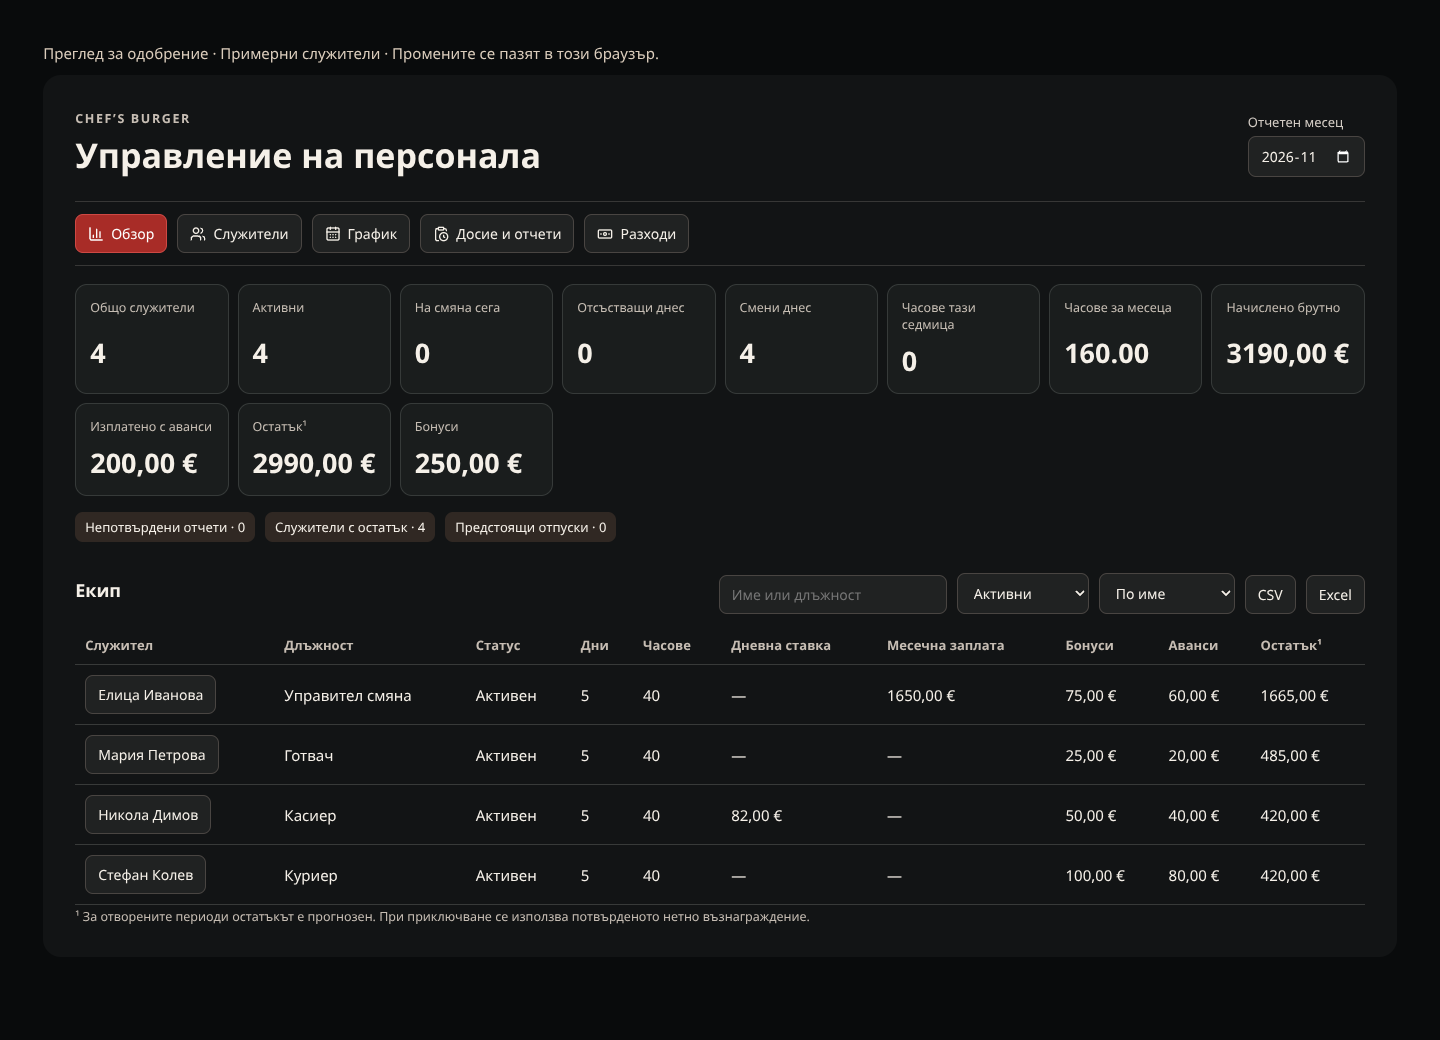
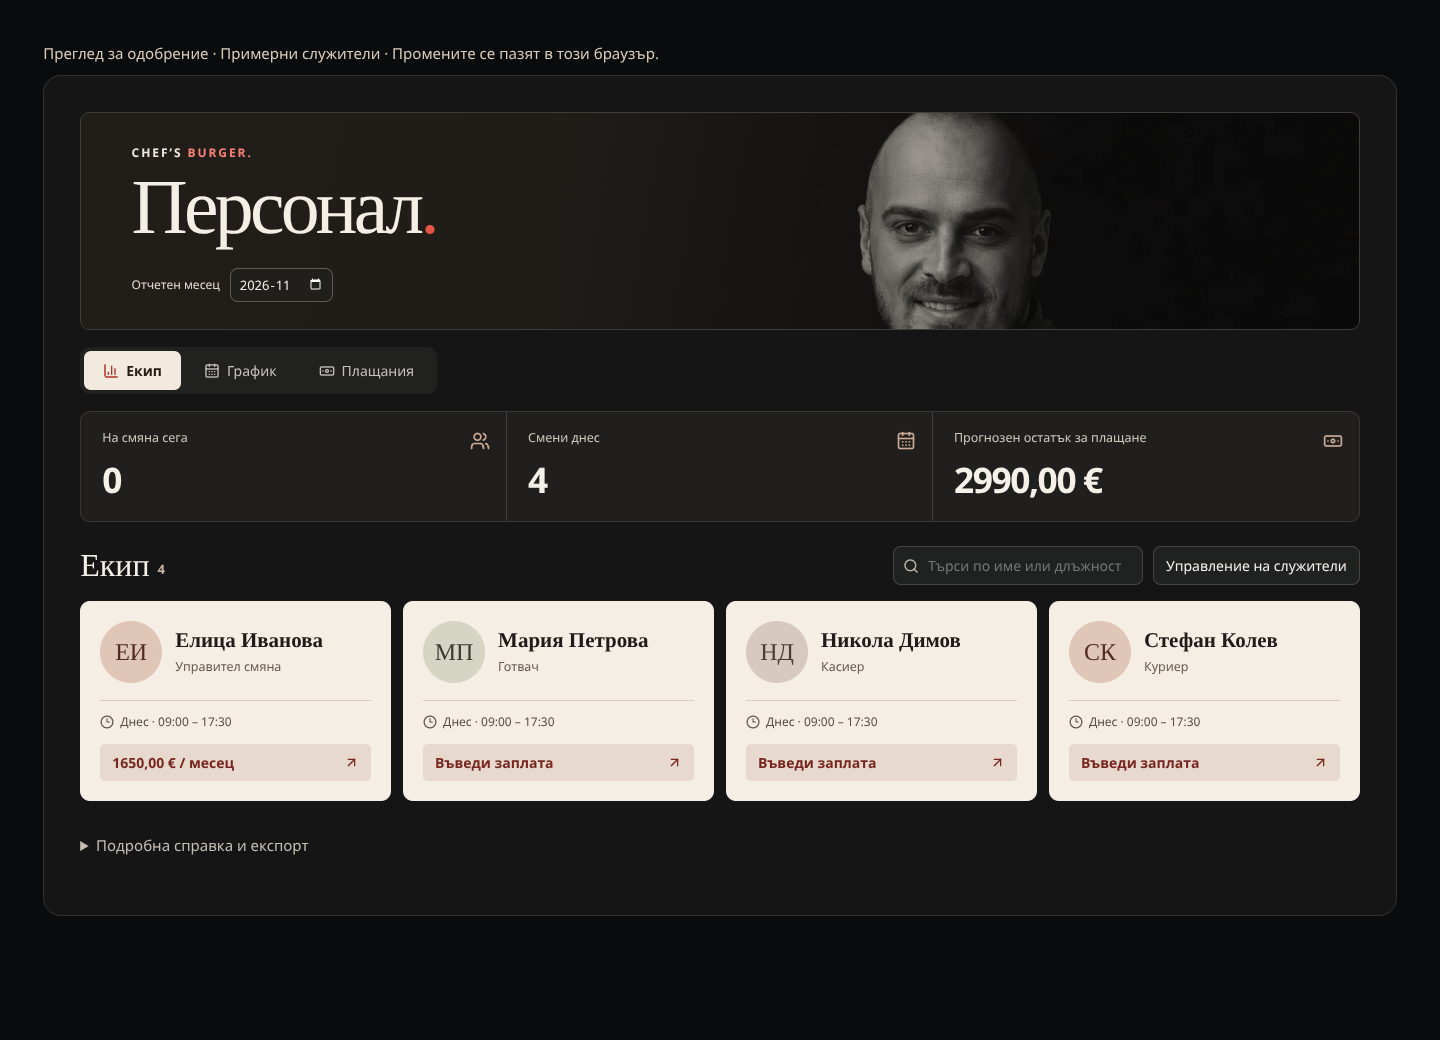
Redesign staff workspace with restaurant photography and editorial team cards

diff --git a/app/admin/staff.css b/app/admin/staff.css
@@ -312,3 +312,22 @@
 }
 .sw-budget,.sw-payrow{display:flex;align-items:center;justify-content:space-between;flex-wrap:wrap;gap:10px;padding:14px 0;border-bottom:1px solid #393c3b}.sw-budget{padding:18px;background:#1b2020;border-radius:12px}.sw-payrow>div,.sw-budget>div{margin-right:auto}.sw-payrow small{display:block;margin-top:4px}.sw-summary{grid-template-columns:repeat(auto-fit,minmax(140px,1fr))}.sw details>summary{padding:10px 0}.sw-payrow strong{font-size:16px}
 .staff-cards{display:grid;grid-template-columns:repeat(auto-fit,minmax(min(100%,260px),1fr));gap:14px;margin:16px 0 24px}.staff-card,.staff-contact{position:relative;display:grid;grid-template-columns:64px minmax(0,1fr);gap:14px;align-items:center;padding:20px;background:linear-gradient(115deg,#222426,#121415 80%);border:1px solid #373738;border-radius:8px;box-shadow:0 8px 20px #0002}.staff-card:before,.staff-contact:before{content:"";position:absolute;left:0;top:20px;height:42px;width:3px;background:#c92b25}.staff-avatar{display:grid;place-items:center;width:64px;height:64px;overflow:hidden;border-radius:50%;background:#33292a;border:1px solid #8c5754;color:#f5f0e8;font:600 21px Georgia,serif}.staff-avatar img{width:100%;height:100%;object-fit:cover}.staff-card>div>button{display:block;text-align:left;padding:0;background:none;border:0;color:#f5f0e8;font:600 21px/1.15 Georgia,serif}.staff-card small,.staff-contact small{display:block;margin-top:6px;color:#b3aba2}.staff-card>button{grid-column:1/-1;justify-self:start;border-color:#78403d;color:#f5f0e8;background:#302021}.staff-contact{margin:16px 0;grid-template-columns:64px 1fr auto}.staff-contact h3{margin:0}.staff-contact p{margin:5px 0}.staff-contact a{color:#f5f0e8}.contract-pages{padding:12px 0}.contract-pages input[type=file]{width:100%;max-width:400px}@media(max-width:580px){.staff-contact{grid-template-columns:64px 1fr}.staff-contact>button{grid-column:1/-1}}
+
+/* Restaurant masthead and staff directory */
+.sw{--paper:#f5eee5;--ink:#191817;--red:#b83329;background:#151515;padding:clamp(14px,2.6vw,36px);border:1px solid #32302e;border-radius:18px}
+.sw-head{position:relative;isolation:isolate;overflow:hidden;min-height:218px;background:#171614;border-radius:10px;display:flex;flex-direction:column;align-items:flex-start;justify-content:center;gap:13px;padding:22px clamp(20px,3.5vw,52px);border:1px solid #413c36}
+.sw-head:before{content:"";position:absolute;inset:0;z-index:-1;background:linear-gradient(100deg,#211e1a 0%,#201d19 35%,transparent 76%)}
+.sw-head .sw-chef{position:absolute;z-index:-2;right:0;top:0;width:62%;height:100%;object-fit:cover;object-position:50% 12%;filter:sepia(.17)}
+.sw-head small{font:800 12px/1.3 system-ui,sans-serif;letter-spacing:.16em;color:#f2e9df}.sw-head small em{font-style:normal;color:#fa8175}
+.sw .sw-head h2{font:500 clamp(45px,5.4vw,78px)/1 Georgia,serif;letter-spacing:-.048em;margin:8px 0;color:var(--paper)}.sw-head h2 span{color:#e25548}
+.sw-head label{display:flex;align-items:center;color:#e3d8cc;font-size:12px;gap:10px}.sw-head input{background:#211f1c;border:1px solid #625b51;padding:6px 8px;font-size:13px}
+.sw nav{border:0;gap:4px;display:inline-flex;background:#212120;border-radius:10px;padding:4px;margin:17px 0}.sw nav button{background:transparent;border:0;border-radius:7px;padding:10px 19px;color:#c7c2bc}.sw nav [aria-current=page]{background:#f2e9df;color:#261a17;font-weight:650}.sw nav [aria-current=page] svg{color:#af3026}
+.sw .sw-summary{background:#201f1e;border:1px solid #3a3733;border-radius:10px;gap:0;overflow:hidden}.sw .sw-summary article{position:relative;border:0;border-radius:0;border-right:1px solid #423d37;background:transparent;padding:17px 48px 18px 21px}.sw .sw-summary article:last-child{border:0}.sw .sw-summary article>svg{position:absolute;right:16px;top:17px;width:20px;color:#ccaa94}.sw .sw-summary b{font-size:clamp(23px,2.45vw,36px);letter-spacing:-.04em}.sw .sw-summary small{color:#d1c7ba}
+.sw .sw-team-tools{margin:24px 0 15px;align-items:center}.sw-team-tools h3{font:500 32px Georgia,serif;margin:0 auto 0 0}.sw-team-tools h3 span{font:600 13px system-ui;color:#c4b4a3;vertical-align:middle}.sw-find{position:relative}.sw-find svg{position:absolute;left:10px;top:50%;transform:translateY(-50%);color:#c2b9ad}.sw-find input{padding-left:34px;width:100%}
+.sw .staff-cards{grid-template-columns:repeat(auto-fit,minmax(min(100%,250px),1fr));gap:12px}
+.sw .staff-card{border:0;background:var(--paper);color:var(--ink);box-shadow:none;grid-template-columns:62px 1fr;gap:13px;padding:20px;border-radius:10px;align-content:start}.staff-card:before{display:none}
+.sw .staff-card .staff-avatar{width:62px;height:62px;border:0;background:#dfc6b6;color:#532b24;font:500 24px Georgia,serif}.staff-card:nth-child(3n+2) .staff-avatar{background:#d6d5c4;color:#393d31}.staff-card:nth-child(3n) .staff-avatar{background:#d7c9c0;color:#493c35}
+.sw .staff-card>div>button{font:600 21px/1.12 Georgia,serif;color:#201b18}.sw .staff-card small{color:#67594f;margin-top:5px}.sw .staff-card .staff-duty{display:flex;align-items:center;gap:6px;grid-column:1/-1;margin:4px 0 0;padding-top:12px;border-top:1px solid #d6ccc1;font-size:12px;color:#584c43}.sw .staff-card>button{display:flex;align-items:center;justify-content:space-between;gap:10px;width:100%;border:0;background:#e7d9cd;color:#77271f;font-weight:650;border-radius:5px}.sw .staff-card>button:hover{background:#dfc7b8}
+.sw .sw-budget{padding:24px;color:#251d18;background:var(--paper);border-radius:10px}.sw .sw-budget small{color:#6a5849}.sw .sw-budget h3{font:500 36px Georgia,serif;margin:5px 0 10px}.sw .sw-budget button{background:#872b23;color:white;border:0}.sw .sw-day>strong{display:block;padding-bottom:5px;color:#e8d7c5}.sw .sw-shift{border-left-color:#d86c55;background:#352722}
+@media(max-width:650px){.sw .sw-head{min-height:165px;padding:15px}.sw-head .sw-chef{width:55%;object-position:52% 22%}.sw-head:before{background:linear-gradient(90deg,#201d19 35%,transparent 90%)}.sw nav{width:100%}.sw nav button{justify-content:center;flex:1;padding:8px 4px}.sw .sw-summary{grid-template-columns:1fr 1fr}.sw .sw-summary article{padding:11px 12px}.sw .sw-summary article>svg{display:none}.sw .sw-summary article:last-child:nth-child(3){grid-column:1/-1;border-top:1px solid #423d37}.sw .sw-team-tools h3{width:100%}.sw-find{width:100%}.sw .staff-cards{grid-template-columns:1fr}.sw .sw-team-tools{gap:8px}}
+@media(prefers-reduced-motion:no-preference){.sw .staff-card{transition:transform .16s ease}.sw .staff-card:focus-within{transform:translateY(-2px)}}

diff --git a/app/admin/StaffWorkspace.tsx b/app/admin/StaffWorkspace.tsx
@@ -2,6 +2,9 @@
 import { useEffect, useState } from "react";
 import {
   Banknote,
+  ArrowUpRight,
+  Clock3,
+  Search,
   CalendarDays,
   ChartColumn,
   ClipboardClock,
@@ -231,9 +234,10 @@ export default function StaffWorkspace({
   return (
     <div className="sw">
       <div className="sw-head">
+        <img className="sw-chef" src="/images/head-chef-monochrome.webp" alt="" />
         <div>
-          <small>CHEF’S BURGER</small>
-          <h2>Управление на персонала</h2>
+          <small>CHEF’S <em>BURGER.</em></small>
+          <h2>Персонал<span>.</span></h2>
         </div>
         <label>
           Отчетен месец
@@ -308,21 +312,23 @@ export default function StaffWorkspace({
                         ],
                       ]
                     : []),
-                ].map(([k, v]) => (
+                ].map(([k, v], index) => (
                   <article key={k}>
+                    {index===0?<Users aria-hidden="true"/>:index===1?<CalendarDays aria-hidden="true"/>:<Banknote aria-hidden="true"/>}
                     <small>{k}</small>
                     <b>{v}</b>
                   </article>
                 ))}
               </div>
-              <div className="sw-tools">
-                <h3>Екип</h3>
+              <div className="sw-tools sw-team-tools">
+                <h3>Екип <span>{data.employees.filter(e=>e.active).length}</span></h3>
+                <div className="sw-find"><Search size={16} aria-hidden="true"/>
                 <input
                   aria-label="Търси в екипа"
                   placeholder="Търси по име или длъжност"
                   value={search}
                   onChange={(e) => setSearch(e.target.value)}
-                />
+                /></div>
                 {data.owner && (
                   <button onClick={() => navigate("people")}>
                     Управление на служители
@@ -338,7 +344,9 @@ export default function StaffWorkspace({
                         .toLocaleLowerCase("bg")
                         .includes(search.toLocaleLowerCase("bg")),
                   )
-                  .map((e) => (
+                  .map((e) => {
+                    const shift=data.shifts.find(s=>s.employee_id===e.id && local(s.starts).slice(0,10)===today());
+                    return (
                     <div key={e.id} className="staff-card">
                       <Avatar
                         id={e.id}
@@ -349,13 +357,14 @@ export default function StaffWorkspace({
                         <button onClick={() => pick(e.id)}>{e.name}</button>
                         <small>{e.position}</small>
                       </div>
+                      <p className="staff-duty"><Clock3 size={14}/>{shift ? "Днес · "+local(shift.starts).slice(11)+" – "+local(shift.ends).slice(11) : "Без планирана смяна днес"}</p>
                       {data.owner && (
                         <button onClick={() => salary(e.id)}>
-                          {salaryLabel(e.id)}
+                          {salaryLabel(e.id)} <ArrowUpRight size={15} aria-hidden="true"/>
                         </button>
                       )}
                     </div>
-                  ))}
+                  );})}
               </div>
               {!data.employees.some(
                 (e) =>
